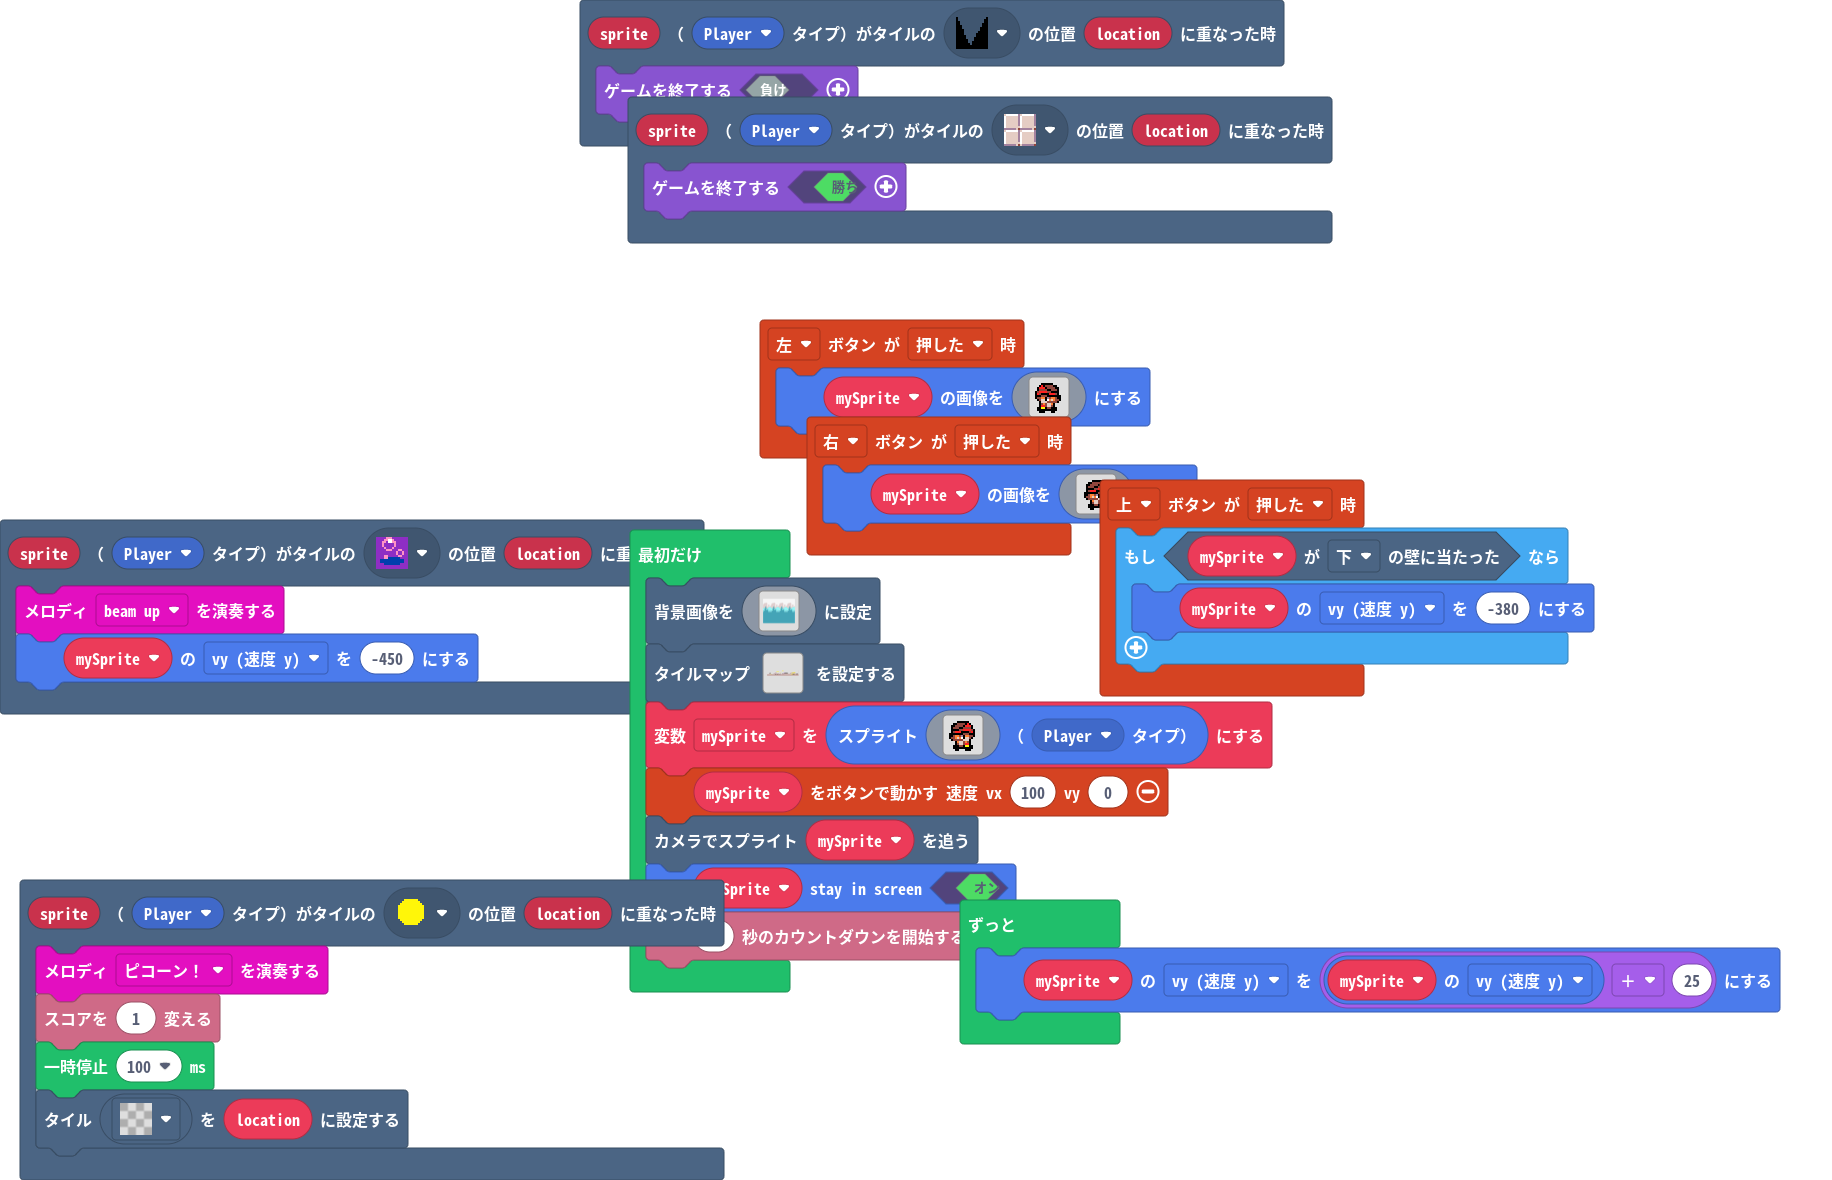
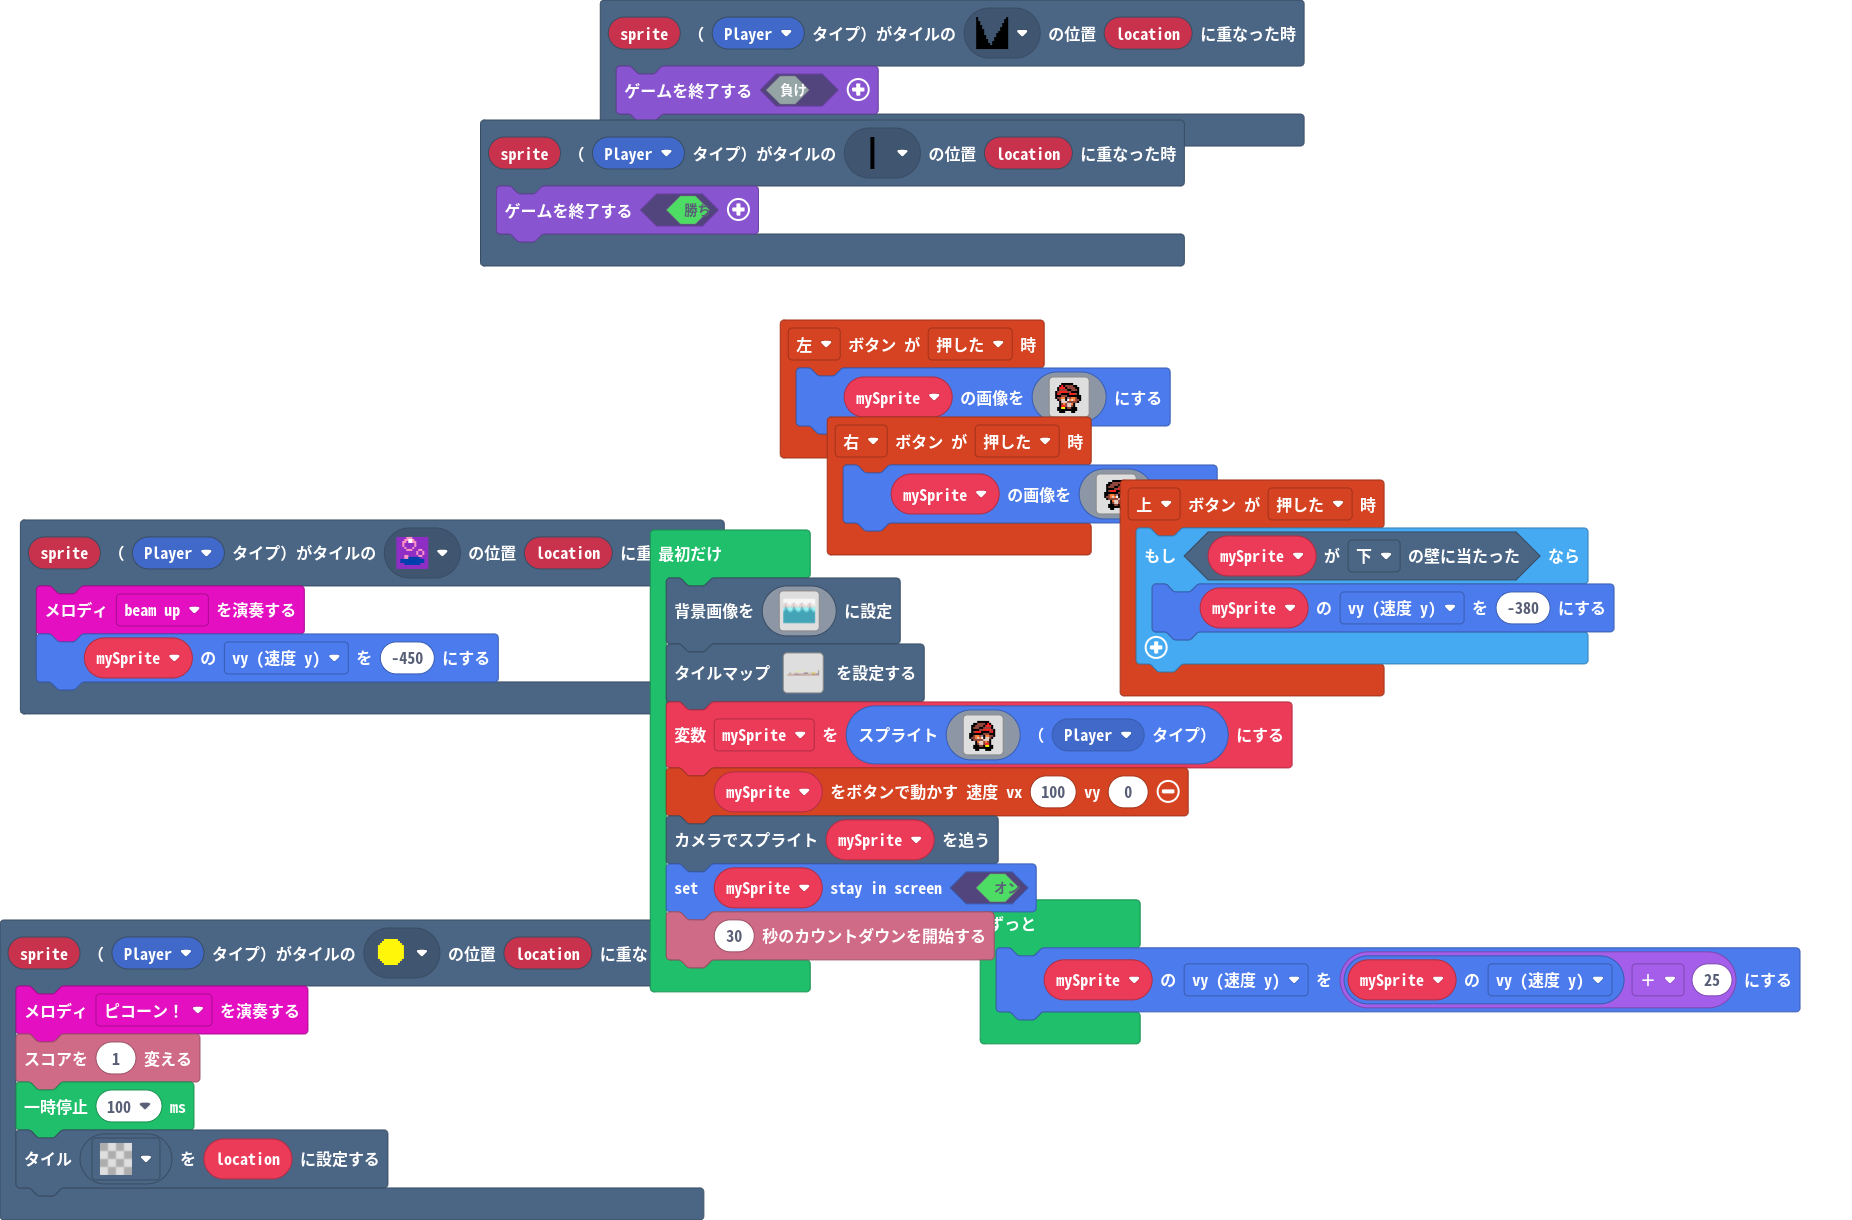
更新 main.blocks, main.ts, tilemap.g.jres, tilemap.g.ts

Changed region(s): [[0.0, 0.0, 0.9956, 1.0], [0.3734, 0.9763, 0.4045, 1.0]]

diff --git a/tilemap.g.ts b/tilemap.g.ts
@@ -12,28 +12,13 @@ namespace myTiles {
     export const tile4 = image.ofBuffer(hex``);
     //% fixedInstance jres blockIdentity=images._tile
     export const tile5 = image.ofBuffer(hex``);
+    //% fixedInstance jres blockIdentity=images._tile
+    export const tile6 = image.ofBuffer(hex``);
+    //% fixedInstance jres blockIdentity=images._tile
+    export const tile7 = image.ofBuffer(hex``);
 
     helpers._registerFactory("tilemap", function(name: string) {
         switch(helpers.stringTrim(name)) {
-            case "レベル1":
-            case "レベル1":return tiles.createTilemap(hex`500010000000000000000000000000000000000000000000000000000000000000000000000000000000000000000000000000000000000000000000000000000000000000000000000000000000000000000000000000000000000000000000000000000000000000000000000000000000000000000000000000000000000000000000000000000000000000000000000000000000000000000000000000000000000000000000000000000000000000000000000000000000000000000000000000000000000000000000000000000000000000000000000000000000000000000000000000000000000000000000000000000000000000000000000000000000000000000000000000000000000000000000000000000000000000000000000000000000000000000000000000000000000000000000000000000000000000000000000000000000000000000000000000000000000000000000000000000000000000000000000004040400000000000000000000000000000000000000000000000000000000000000000000000000000300000000000000000000000000000000000000000000000000000000000000000000000000000000000000000000000000000000000000000000000000000000000000000000000000000000000000030000000000000000000000000000000000000000000000000404040404040000000000000000000000000000000000000000000000000000000000000000000000000000000000000000000000000003000000000000000000000000000000000000000000000004000000000000000000000000000000000000000000000000000000000000000000000000000000000000000000000000000000000000000300000000000000000000000000000000000000000000000000000000000000000000040000000000000000000000000000000000000000000000000000000000000000040404000000000000000000030000000000000000000000000000000000000000000005000000000000000000000000000000000000000000000000000000000000000000000000000000040404040404040400000000000000000003000000000000000202000000000000000000000001010100000000000000000000010000000000000000050502020202020202020000000000000101010101010101010101010100000000000000000300000000000101010100000000000000000101010000000000010000010000000001000000000002000001010101010101010101010000000001010100000000000000000000000000000000000000030000000000000000000000000000000001000000000000000101000001010000000100000001010101010100000000000000000000000100000000000000000004040000000000040005020202000003000000000000000000040400010000000000000002020201010102020101010002010000000000000000000000000000000000000000000000000000040404040202020202010101010101010101000301010101010101010101010101010101010101010101010101010101010101010101010101010101010101010101010101010101010101010101010101010101010101010101010101010101010101030101010101010101010101010101010101010101010101010101010101010101010101010101010101010101010101010101010101010101010101010101010101010101010101010101010101010103`, img`
-................................................................................
-................................................................................
-................................................................................
-................................................................................
-................................................................................
-................................................................................
-................................................................................
-................................................................................
-................................................................................
-................................................................................
-....................222..........2........................2222222222222.........
-.....2222........222.....2..2....2........22222222222....222....................
-................2.......22..22...2...222222...........2.........................
-............2..........222..222..2...................................222222222..
-22222222222222222222222222222222222222222222222222222222222222222222222222222222
-22222222222222222222222222222222222222222222222222222222222222222222222222222222
-`, [myTiles.transparency16,myTiles.tile1,myTiles.tile2,myTiles.tile3,myTiles.tile4,myTiles.tile5], TileScale.Sixteen);
             case "レベル2":
             case "レベル2":return tiles.createTilemap(hex`1000100000000000000000000000000000000000000000000000000000000000000000000000000000000000000000000000000000000000000000000000000000000000000000000000000000000000000000000000000000000000000000000000000000000000000000000000000000000000000000000000000000000000000000000000000000000000000000000000000000000000000000000000000000000000000000000000000000000000000000000000000000000000000000000000000000000000000000000000000000000000000000000000000000000000000000000000000000000000000000000000000000000000000000000000000000000000`, img`
 . . . . . . . . . . . . . . . . 
@@ -72,6 +57,44 @@ namespace myTiles {
 . . . . . . . . . . . . . . . . 
 . . . . . . . . . . . . . . . . 
 `, [myTiles.transparency16], TileScale.Sixteen);
+            case "レベル4":
+            case "レベル4":return tiles.createTilemap(hex`1000100000000000000000000000000000000000000000000000000000000000000000000000000000000000000000000000000000000000000000000000000000000000000000000000000000000000000000000000000000000000000000000000000000000000000000000000000000000000000000000000000000000000000000000000000000000000000000000000000000000000000000000000000000000000000000000000000000000000000000000000000000000000000000000000000000000000000000000000000000000000000000000000000000000000000000000000000000000000000000000000000000000000000000000000000000000000`, img`
+. . . . . . . . . . . . . . . . 
+. . . . . . . . . . . . . . . . 
+. . . . . . . . . . . . . . . . 
+. . . . . . . . . . . . . . . . 
+. . . . . . . . . . . . . . . . 
+. . . . . . . . . . . . . . . . 
+. . . . . . . . . . . . . . . . 
+. . . . . . . . . . . . . . . . 
+. . . . . . . . . . . . . . . . 
+. . . . . . . . . . . . . . . . 
+. . . . . . . . . . . . . . . . 
+. . . . . . . . . . . . . . . . 
+. . . . . . . . . . . . . . . . 
+. . . . . . . . . . . . . . . . 
+. . . . . . . . . . . . . . . . 
+. . . . . . . . . . . . . . . . 
+`, [myTiles.transparency16], TileScale.Sixteen);
+            case "レベル1":
+            case "レベル1":return tiles.createTilemap(hex`500010000000000000000000000000000000000000000000000000000000000000000000000000000000000000000000000000000000000000000000000000000000000000000000000000000000000000000003000000000000000000000000000000000000000000000000000000000000000000000000000000000000000000000000000000000000000000000000000000000000000000000000000000000000000300000000000000000000000000000000000000000000000000000000000000000000000000000000000000000000000000000000000000000000000000000000000000000000000000000000000000030000000000000000000000000000000000000000000000000000000000000000000000000000000000000000000000000000000000000000000000000000000000000000000000000000000000000007000000000000000000000000000000000000000000000000000000000000000000000000000004040400000000000000000000000000000000000000000000000000000000000000000000000000000600000000000000000000000000000000000000000000000000000000000000000000000000000000000000000000000000000000000000000000000000000000000000000000000000000000000000060000000000000000000000000000000000000000000000000404040404040000000000000000000000000000000000000000000000000000000000000000000000000000000000000000000000000006000000000000000000000000000000000000000000000004000000000000000000000000000000000000000000000000000000000000000000000000000000000000000000000000000000000000000600000000000000000000000000000000000000000000000000000000000000000000040000000000000000000000000000000000000000000000000000000000000000040404000000000000000000060000000000000000000000000000000000000000000005000000000000000000000000000000000000000000000000000000000000000000000000000000040404040404040400000000000000000006000000000000000202000000000000000000000001010100000000000000000000010000000000000000050502020202020202020000000000000101010101010101010101010100000000000000000600000000000101010100000000000000000101010000000000010000010000000001000000000002000001010101010101010101010000000001010100000000000000000000000000000000000000060000000000000000000000000000000001000000000000000101000001010000000100000001010101010100000000000000000000000100000000000000000004040000000000040005020202000006000000000000000000040400010000000000000002020201010102020101010002010000000000000000000000000000000000000000000000000000040404040202020202010101010101010101000601010101010101010101010101010101010101010101010101010101010101010101010101010101010101010101010101010101010101010101010101010101010101010101010101010101010101030101010101010101010101010101010101010101010101010101010101010101010101010101010101010101010101010101010101010101010101010101010101010101010101010101010101010103`, img`
+................................................................................
+................................................................................
+................................................................................
+................................................................................
+................................................................................
+................................................................................
+................................................................................
+................................................................................
+................................................................................
+................................................................................
+....................222..........2........................2222222222222.........
+.....2222........222.....2..2....2........22222222222....222....................
+................2.......22..22...2...222222...........2.........................
+............2..........222..222..2...................................222222222..
+22222222222222222222222222222222222222222222222222222222222222222222222222222222
+22222222222222222222222222222222222222222222222222222222222222222222222222222222
+`, [myTiles.transparency16,myTiles.tile1,myTiles.tile2,myTiles.tile3,myTiles.tile4,myTiles.tile5,myTiles.tile6,myTiles.tile7], TileScale.Sixteen);
         }
         return null;
     })
@@ -89,6 +112,10 @@ namespace myTiles {
             case "tile4":return tile4;
             case "myTile3":
             case "tile5":return tile5;
+            case "myTile4":
+            case "tile6":return tile6;
+            case "myTile5":
+            case "tile7":return tile7;
         }
         return null;
     })

diff --git a/main.ts b/main.ts
@@ -1,9 +1,6 @@
 scene.onOverlapTile(SpriteKind.Player, assets.tile`myTile0`, function (sprite, location) {
     game.over(false)
 })
-scene.onOverlapTile(SpriteKind.Player, assets.tile`myTile1`, function (sprite, location) {
-    game.over(true)
-})
 controller.right.onEvent(ControllerButtonEvent.Pressed, function () {
     mySprite.setImage(img`
         . . . . . . . . . . . . . . . . 
@@ -23,6 +20,9 @@ controller.right.onEvent(ControllerButtonEvent.Pressed, function () {
         . . . . f f f f f f f f f f . . 
         . . . . . f f . . . f f f . . . 
         `)
+})
+scene.onOverlapTile(SpriteKind.Player, assets.tile`myTile4`, function (sprite, location) {
+    game.over(true)
 })
 scene.onOverlapTile(SpriteKind.Player, assets.tile`myTile3`, function (sprite, location) {
     music.beamUp.play()
@@ -204,7 +204,7 @@ mySprite = sprites.create(img`
 controller.moveSprite(mySprite, 100, 0)
 scene.cameraFollowSprite(mySprite)
 mySprite.setStayInScreen(true)
-info.startCountdown(10)
+info.startCountdown(30)
 forever(function () {
     mySprite.vy = mySprite.vy + 25
 })
